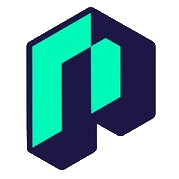
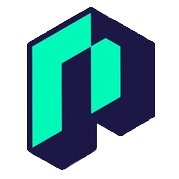
dark mode

diff --git a/src/App.js b/src/App.js
@@ -10,31 +10,111 @@ import Merch from "./components/Merch/Merch";
 import Profile from "./components/Profile/Profile";
 import { useState } from "react";
 import Staff from "./components/Staff/Staff";
+import * as React from "react";
 import Transactions from "./components/Transactions/Transations";
+import useMediaQuery from "@mui/material/useMediaQuery";
+import { ThemeProvider, createTheme } from "@mui/material/styles";
+import CssBaseline from "@mui/material/CssBaseline";
+
+const themes = {
+  dark: createTheme({
+    palette: {
+      mode: "dark",
+    },
+    components: {
+      MuiListItem: {
+        styleOverrides: {
+          button: {
+            // apply theme's border-radius instead of component's default
+            color: "white !important",
+          },
+        },
+      },
+      MuiListItemText: {
+        styleOverrides: {
+          secondary: {
+            color: "white",
+          },
+        },
+      },
+      MuiSvgIcon: {
+        styleOverrides: {
+          root: {
+            // apply theme's border-radius instead of component's default
+            color: "white !important",
+          },
+        },
+      },
+    },
+  }),
+  light: createTheme({
+    palette: { mode: "light" },
+    components: {
+      MuiListItem: {
+        styleOverrides: {
+          button: {
+            // apply theme's border-radius instead of component's default
+            color: "black !important",
+          },
+        },
+      },
+      MuiListItemText: {
+        styleOverrides: {
+          secondary: {
+            color: "black",
+          },
+        },
+      },
+      MuiSvgIcon: {
+        styleOverrides: {
+          root: {
+            // apply theme's border-radius instead of component's default
+            color: "black !important",
+          },
+        },
+      },
+    },
+  }),
+};
 
 function App() {
+  const PREFER_DARK = useMediaQuery("(prefers-color-scheme: dark)", {
+    noSsr: true,
+  });
   const [roles, setRoles] = useState(["admin", "model"]);
+  const [mode, setMode] = useState(PREFER_DARK ? "dark" : "light");
+
   return (
-    <Router basename="/">
-      <Left roles={roles} />
-      <div className="container">
-        <Routes>
-          <Route exact index path={"/"} element={<Home />} />
-          <Route exact path={"/photosets"} element={<Photosets />} />
-          <Route exact path={"/photosets/:id"} element={<Photoset />} />
-          <Route exact path={"/models"} element={<Models />} />
-          <Route exact path={"/models/:id"} element={<Model />} />
-          <Route exact path={"/merch"} element={<Merch />} />
-          <Route
-            exact
-            path={"/profile"}
-            element={<Profile roles={roles} setRoles={setRoles} />}
-          />
-          <Route exact path={"/staff"} element={<Staff />} />
-          <Route exact path={"/transactions"} element={<Transactions />} />
-        </Routes>
-      </div>
-    </Router>
+    <ThemeProvider theme={themes[mode]}>
+      <CssBaseline />
+      <Router basename="/">
+        <Left roles={roles} mode={mode} />
+        <div className="container">
+          <Routes>
+            <Route exact index path={"/"} element={<Home />} />
+            <Route exact path={"/photosets"} element={<Photosets />} />
+            <Route exact path={"/photosets/:id"} element={<Photoset />} />
+            <Route exact path={"/models"} element={<Models />} />
+            <Route exact path={"/models/:id"} element={<Model />} />
+            <Route exact path={"/merch"} element={<Merch />} />
+            <Route
+              exact
+              path={"/profile"}
+              element={
+                <Profile
+                  roles={roles}
+                  setRoles={setRoles}
+                  setMode={setMode}
+                  mode={mode}
+                />
+              }
+            />
+            <Route exact path={"/staff"} element={<Staff />} />
+            <Route exact path={"/transactions"} element={<Transactions />} />
+          </Routes>
+        </div>
+      </Router>
+    </ThemeProvider>
   );
 }
 

diff --git a/src/components/Profile/Profile.jsx b/src/components/Profile/Profile.jsx
@@ -4,8 +4,11 @@ import ListItem from "@mui/material/ListItem";
 import ListItemText from "@mui/material/ListItemText";
 import ListSubheader from "@mui/material/ListSubheader";
 import { Container, Divider, Typography } from "@mui/material";
+import IconButton from "@mui/material/IconButton";
+import Brightness4Icon from "@mui/icons-material/Brightness4";
+import Brightness7Icon from "@mui/icons-material/Brightness7";
 
-const Profile = ({ roles, setRoles }) => {
+const Profile = ({ mode, setMode, roles, setRoles }) => {
   return (
     <>
       <Typography variant="h3" sx={{ margin: "30px" }}>
@@ -70,6 +73,23 @@ const Profile = ({ roles, setRoles }) => {
             />
           </ListItem>
         </List>
+      </Container>
+      <Divider sx={{ margin: "30px" }} />
+      <Container>
+        <ListSubheader component="div" id="tags">
+          Select Color Theme
+        </ListSubheader>
+        <IconButton
+          sx={{ ml: 1 }}
+          onClick={() => {
+            mode === "dark" ? setMode("light") : setMode("dark");
+          }}
+          color="inherit"
+        >
+          {mode === "dark" ? <Brightness7Icon /> : <Brightness4Icon />}
+        </IconButton>
+        Currently:{" "}
+        {mode === "dark" ? <span>dark mode</span> : <span>light mode</span>}
       </Container>
     </>
   );

diff --git a/src/components/Left/Left.jsx b/src/components/Left/Left.jsx
@@ -9,6 +9,7 @@ import HomeIcon from "@mui/icons-material/Home";
 import ImageIcon from "@mui/icons-material/Image";
 import ListSubheader from "@mui/material/ListSubheader";
 import logo from "../../images/OniFans.png";
+import darkLogo from "../../images/OniFansDark.png";
 import GitHubIcon from "@mui/icons-material/GitHub";
 import { Link } from "react-router-dom";
 import { Avatar, ListItemAvatar } from "@mui/material";
@@ -16,7 +17,7 @@ import defaultCardImage from "../../images/nopixel.png";
 
 const drawerWidth = 240;
 
-export default function Left({ roles }) {
+export default function Left({ roles, mode }) {
   return (
     <Drawer
       sx={{
@@ -31,7 +32,7 @@ export default function Left({ roles }) {
       anchor="left"
     >
       <img
-        src={logo}
+        src={mode === "light" ? logo : darkLogo}
         alt="OniFans Logo"
         style={{ height: "50px", width: "auto", margin: "10px auto" }}
       ></img>

diff --git a/src/App.css b/src/App.css
@@ -72,10 +72,6 @@
   float: left;
 }
 
-.ahh p {
-  color: black !important;
-}
-
 .ahhact p {
   color: red !important;
 }

diff --git a/src/index.css b/src/index.css
@@ -13,6 +13,5 @@ code {
 }
 
 a {
-  color: black;
   text-decoration: none;
 }
